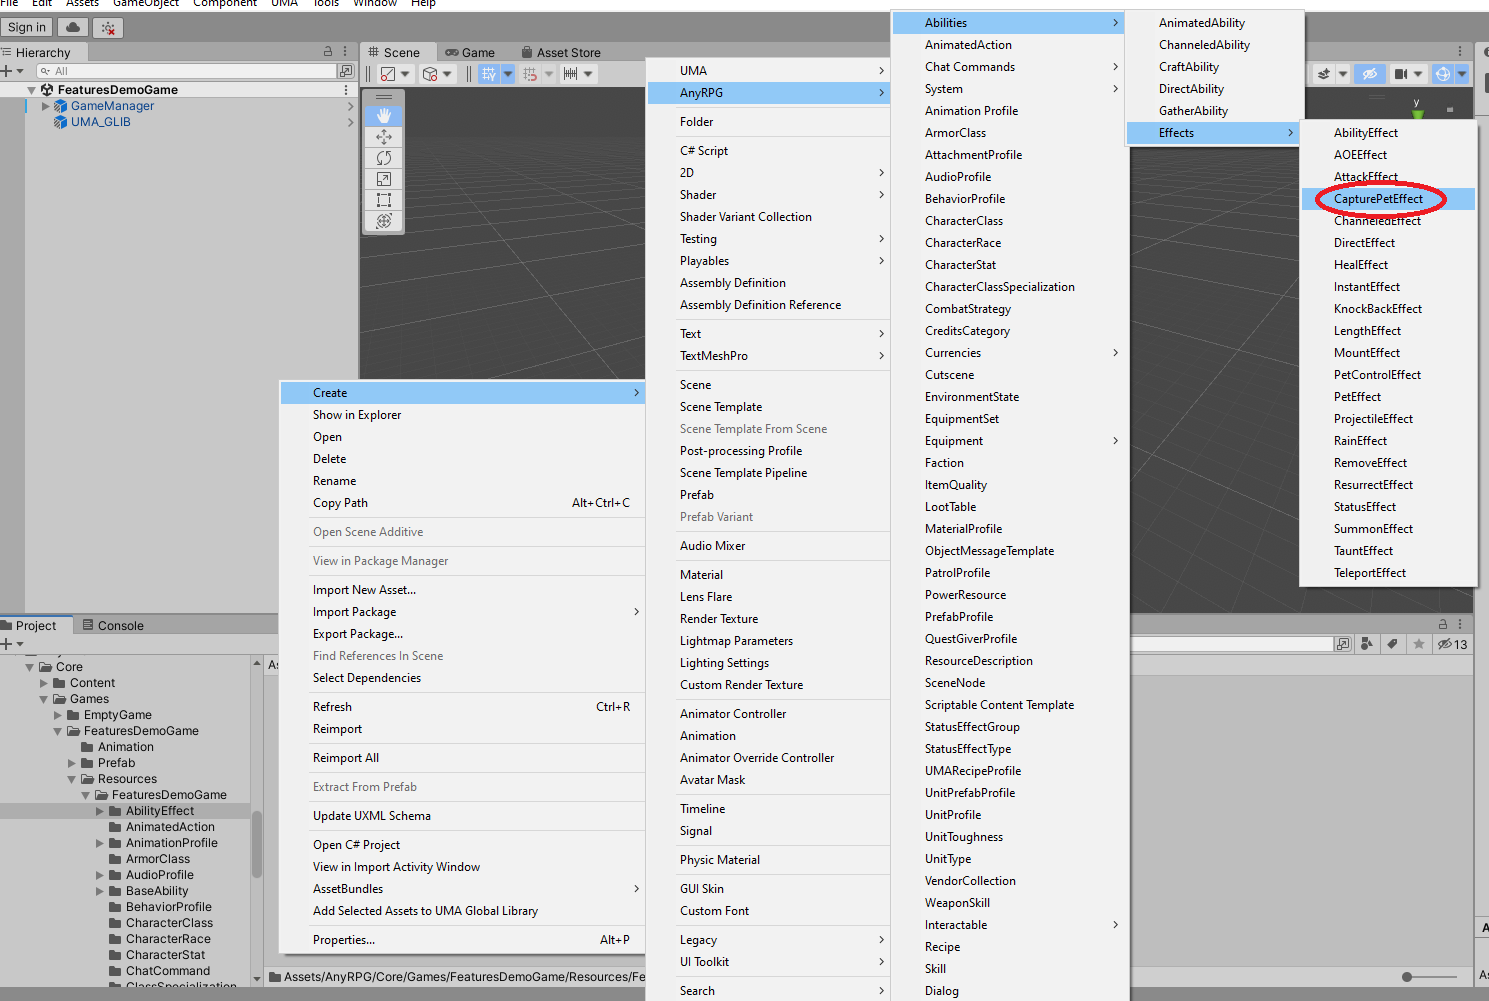
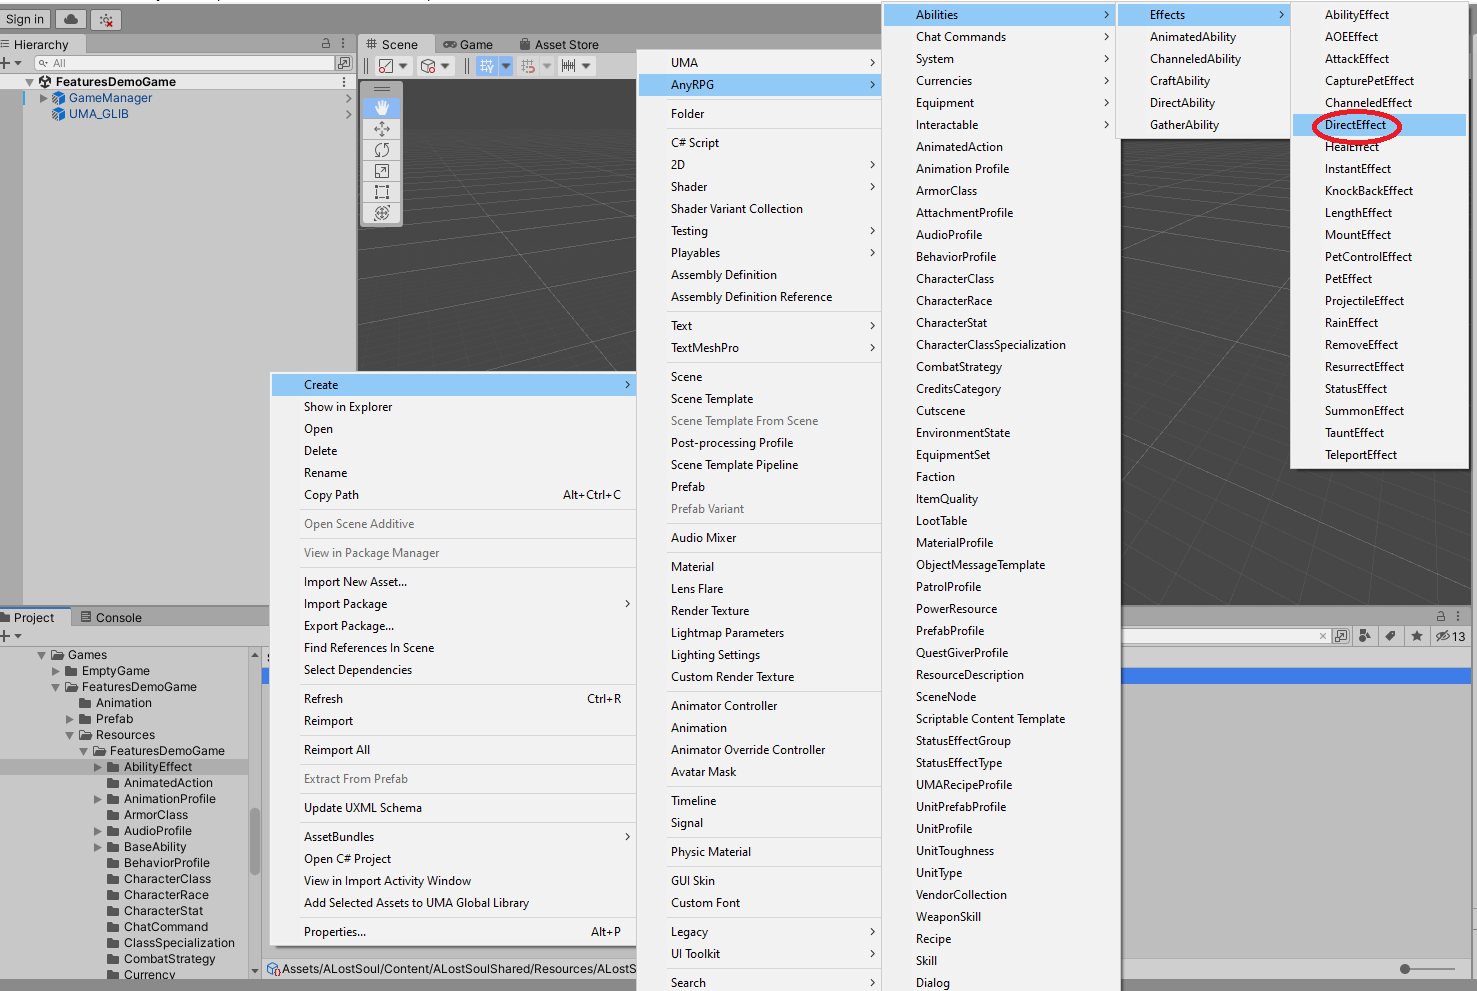
GitBook: [#97] add direct effect documentation

Changed region(s): [[0.0, 0.0, 1.0, 1.0]]

diff --git a/scriptable-objects/ability-effects/direct-effect.md b/scriptable-objects/ability-effects/direct-effect.md
@@ -1,5 +1,26 @@
+---
+description: >-
+  A direct effect is a type of intermediate effect that can be used to chain
+  multiple effects together.
+---
+
 # Direct Effect
 
-{% hint style="info" %}
-Coming Soon
-{% endhint %}
+## Creation
+
+To create a direct effect, find (or create) the _GameName/Resources/GameName/AbilityEffect_ folder (or any subfolder) in the project tab and right click.  Choose _Create > AnyRPG > Abilities > Effects > DirectEffect_.
+
+![](<../../.gitbook/assets/image (13).png>)
+
+### Properties
+
+Direct Effects do not have any properties other than the properties provided by their parent class, [Fixed Length Effect](./#fixed-length-effect-properties).
+
+## Usage
+
+Direct Effects will cast Tick Ability Effects, and Complete Ability Effects, but will never cast Hit Ability Effects.  Hit Abilty Effects will be cast by [Projectile Effects](projectile-effect.md), [AOE Effects](aoe-effect.md), and [Channeled Effects](channeled-effect.md).
+
+## Next steps
+
+* Add a direct effect to an [Ability](../abilities/).
+* Add a direct effect to another [Ability Effect](./) to chain them together.

diff --git a/wizards/new-scene-wizard.md b/wizards/new-scene-wizard.md
@@ -47,7 +47,7 @@ In the _Prefab/Portal_ folder you can find a portal prefab.  This object can be 
 
 If audio files were chosen on the New Game Wizard window, then AudioProfile scriptable objects will exist in the _Resources/GameName/AudioProfile_ folder.  These objects contain links to the audio files that were selected.
 
-![](<../.gitbook/assets/image (13) (1).png>)
+![](<../.gitbook/assets/image (13) (1) (1).png>)
 
 #### Scene Node
 

diff --git a/scriptable-objects/ability-effects/capture-pet-effect.md b/scriptable-objects/ability-effects/capture-pet-effect.md
@@ -10,7 +10,7 @@ description: >-
 
 To create a capture pet effect, find (or create) the _GameName/Resources/GameName/AbilityEffect_ folder (or any subfolder) in the project tab and right click.  Choose _Create > AnyRPG > Abilities > Effects > CapturePetEffect_.
 
-![](<../../.gitbook/assets/image (13).png>)
+![](<../../.gitbook/assets/image (13) (1).png>)
 
 ### Properties
 
